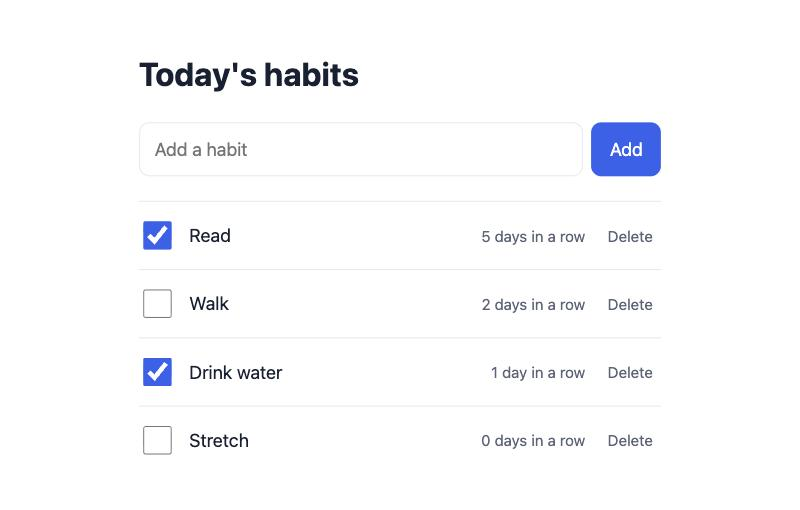
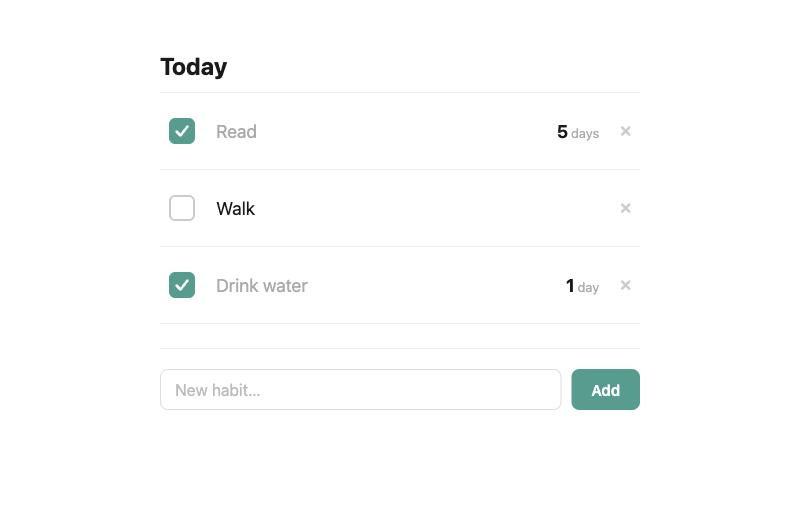
Clarify the navigation and add prompt search
Labels the habit tracker as an optional exercise and lets students jump
to their own app. The site name uses the landing font beside the favicon
mark. All prompts gets a search box. The lesson screenshot now comes from
a clean Claude Code run of the prompts.

diff --git a/content/lessons/1b-habit-tracker.ts b/content/lessons/1b-habit-tracker.ts
@@ -5,13 +5,14 @@ import type { Part } from "@/lib/types";
 export const habitTracker: Part = {
   slug: "habit-tracker",
   title: "Build a habit tracker",
+  group: "Optional exercise",
   lessons: [
     {
       slug: "plan-the-habit-tracker",
       title: "Plan the habit tracker",
       description: "Practice the whole process on a small app, starting with a one-page plan.",
       blocks: [
-        { type: "p", text: "Let's build one small app together, from start to finish. You'll see how it all works before you try your own idea." },
+        { type: "p", text: "Let's build one small app together, from start to finish, so you can see how it all works. Already have an idea? [Skip to your own app](/lessons/define-the-problem)." },
         { type: "p", text: "Good apps start on paper, so Claude writes the plan first." },
         newPlanSession(),
         pastePrompt({
@@ -93,7 +94,7 @@ Create a short CLAUDE.md that says what this app is, points to the files in docs
           text: `Read CLAUDE.md and everything in docs/. Build both milestones from docs/plan.md in index.html, and follow docs/design.md. Then tell me how to open it.`,
         }),
         approve("Claude writes the code."),
-        { type: "step", text: "Click `index.html` in the chat. It opens in the app's browser. Yours won't look exactly like this, because Claude makes its own choices.", then: [{ type: "image", src: "/lessons/habit-tracker.jpg", alt: "The finished habit tracker: a box to add a habit, and a list of habits with checkboxes and days in a row." }] },
+        { type: "step", text: "Click `index.html` in the chat. It opens in the app's browser. Yours won't look exactly like this, because Claude makes its own choices.", then: [{ type: "image", src: "/lessons/habit-tracker.jpg", alt: "The finished habit tracker: a list of habits with checkboxes and days in a row, and a box to add a new one." }] },
         { type: "step", text: "Try it. Add a habit called **Read**, check it off and refresh the page. It should still be there." },
       ],
     },

diff --git a/components/SideNav.tsx b/components/SideNav.tsx
@@ -3,6 +3,7 @@ import Link from "next/link";
 import { usePathname } from "next/navigation";
 import { useState } from "react";
 import { Author } from "@/components/Author";
+import { Brand } from "@/components/Brand";
 import { useProgress } from "@/lib/progress";
 
 export type NavPart = { slug: string; title: string; group?: string; lessons: { slug: string; title: string }[] };
@@ -17,7 +18,11 @@ function Tree({ parts, path, onNavigate }: { parts: NavPart[]; path: string; onN
           const open = part.lessons.some((l) => path === `/lessons/${l.slug}`);
           return (
             <li key={part.slug}>
-              {part.group ? <span className="tree-group">{part.group}</span> : null}
+              {part.group ? (
+                <Link href={`/lessons/${part.lessons[0].slug}`} onClick={onNavigate} className="tree-group">
+                  {part.group}
+                </Link>
+              ) : null}
               <Link href={`/lessons/${part.lessons[0].slug}`} onClick={onNavigate} className={open ? "tree-stage open" : "tree-stage"}>
                 {part.title}
               </Link>
@@ -56,9 +61,7 @@ export function SideNav({ parts }: { parts: NavPart[] }) {
   return (
     <>
       <header className="phonebar">
-        <Link href="/" className="brand">
-          Coding with Vibes Only
-        </Link>
+        <Brand />
         <button type="button" className="dive-open" aria-expanded={open} onClick={() => setOpen(!open)}>
           {open ? "Close" : "Menu"}
         </button>
@@ -69,9 +72,7 @@ export function SideNav({ parts }: { parts: NavPart[] }) {
         </nav>
       ) : null}
       <aside className="sidebar">
-        <Link href="/" className="brand">
-          Coding with Vibes Only
-        </Link>
+        <Brand />
         <nav aria-label="Lessons">
           <Tree parts={parts} path={path} />
         </nav>

diff --git a/components/PromptSearch.tsx b/components/PromptSearch.tsx
@@ -1,0 +1,42 @@
+"use client";
+import { useState } from "react";
+import { Prompt } from "@/components/Prompt";
+
+type Item = { id: string; title: string; mode?: string; text: string };
+type Group = { slug: string; title: string; items: Item[] };
+
+// Every word typed has to appear in the prompt's stage, title or text.
+export function PromptSearch({ groups }: { groups: Group[] }) {
+  const [query, setQuery] = useState("");
+  const words = query.toLowerCase().split(/\s+/).filter(Boolean);
+  const matches = (group: Group, item: Item) => {
+    const haystack = `${group.title} ${item.title} ${item.text}`.toLowerCase();
+    return words.every((w) => haystack.includes(w));
+  };
+  const shown = groups.map((g) => ({ ...g, items: g.items.filter((i) => matches(g, i)) })).filter((g) => g.items.length);
+
+  return (
+    <>
+      <input
+        className="search"
+        type="search"
+        value={query}
+        onChange={(e) => setQuery(e.target.value)}
+        placeholder="Search prompts"
+        aria-label="Search prompts"
+      />
+      {shown.length ? null : <p role="status">No prompts match that search.</p>}
+      {shown.map((group) => (
+        <section key={group.slug} className="prompt-group">
+          <h2>{group.title}</h2>
+          {group.items.map((item) => (
+            <div key={item.id}>
+              <p>{item.title}</p>
+              <Prompt label={item.mode ? `${item.mode} mode` : undefined} text={item.text} />
+            </div>
+          ))}
+        </section>
+      ))}
+    </>
+  );
+}

diff --git a/styles/course.css b/styles/course.css
@@ -1,7 +1,7 @@
 /* The frame around the lessons. */
 .course {
   display: grid;
-  grid-template-columns: 260px minmax(0, 1fr);
+  grid-template-columns: 280px minmax(0, 1fr);
   min-height: 100dvh;
 }
 
@@ -15,6 +15,7 @@
   top: 0;
   height: 100dvh;
   overflow-y: auto;
+  scrollbar-width: thin;
   padding: 24px;
   display: flex;
   flex-direction: column;
@@ -32,19 +33,12 @@
 }
 
 .sidebar > .brand {
-  display: block;
-  margin-bottom: 32px;
+  margin-bottom: 24px;
 }
 
 .phonebar,
 .phonemenu {
   display: none;
-}
-
-.phonebar .brand {
-  display: flex;
-  align-items: center;
-  min-height: 44px;
 }
 
 .tree,
@@ -75,12 +69,19 @@
 
 .tree-group {
   display: block;
-  margin: 16px 0 4px;
-  padding-top: 16px;
+  margin-top: 14px;
+  padding: 14px 0 4px;
   border-top: 1px solid var(--line);
-  color: var(--ink);
+  color: var(--muted);
   font-size: 13px;
   font-weight: 600;
+  letter-spacing: 0.06em;
+  text-decoration: none;
+  text-transform: uppercase;
+}
+
+.tree-group:hover {
+  color: var(--accent);
 }
 
 .tree-prompts {
@@ -150,6 +151,9 @@
     padding: 8px 20px 24px;
     background: var(--bg);
     flex-direction: column;
+  }
+  .phonemenu .tree-group {
+    padding-bottom: 8px;
   }
   .phonemenu .tree-stage,
   .phonemenu .tree-lesson {

diff --git a/app/(course)/prompts/page.tsx b/app/(course)/prompts/page.tsx
@@ -1,5 +1,5 @@
 import type { Metadata } from "next";
-import { Prompt } from "@/components/Prompt";
+import { PromptSearch } from "@/components/PromptSearch";
 import { promptsByPart } from "@/lib/course";
 
 export const metadata: Metadata = {
@@ -9,22 +9,17 @@ export const metadata: Metadata = {
 
 // Job: find a prompt and copy it.
 export default function AllPrompts() {
+  const groups = promptsByPart
+    .filter((g) => g.items.length)
+    .map(({ part, items }) => ({
+      slug: part.slug,
+      title: part.title,
+      items: items.map(({ id, title, mode, text }) => ({ id, title, mode, text })),
+    }));
   return (
     <article className="lesson">
       <h1>All prompts</h1>
-      {promptsByPart
-        .filter((g) => g.items.length)
-        .map(({ part, items }) => (
-          <section key={part.slug} className="prompt-group">
-            <h2>{part.title}</h2>
-            {items.map((prompt) => (
-              <div key={prompt.id}>
-                <p>{prompt.title}</p>
-                <Prompt label={prompt.mode ? `${prompt.mode} mode` : undefined} text={prompt.text} />
-              </div>
-            ))}
-          </section>
-        ))}
+      <PromptSearch groups={groups} />
     </article>
   );
 }

diff --git a/components/Blocks.tsx b/components/Blocks.tsx
@@ -1,3 +1,4 @@
+import Link from "next/link";
 import type { ReactNode } from "react";
 import { Checklist } from "@/components/Checklist";
 import { Dive } from "@/components/Dive";
@@ -37,6 +38,13 @@ function Inline({ text, ctx }: { text: string; ctx: Ctx }) {
         if (part.startsWith("`")) return <code key={i}>{part.slice(1, -1)}</code>;
         const link = /^\[([^\]]+)\]\(([^)]+)\)$/.exec(part);
         if (link) {
+          if (link[2].startsWith("/")) {
+            return (
+              <Link key={i} href={link[2]}>
+                {link[1]}
+              </Link>
+            );
+          }
           return (
             <a key={i} href={link[2]} target="_blank" rel="noreferrer">
               {link[1]}

diff --git a/content/lessons/2-product.ts b/content/lessons/2-product.ts
@@ -18,7 +18,7 @@ export const product: Part = {
           left: { title: "Vague", items: ["A fitness app for everyone"] },
           right: { title: "Clear", items: ["Tells runners coming back from injury how far to run this week"] },
         },
-        { type: "step", text: "Create a new folder for your app, the same way you did for the habit tracker. In the Claude app, open it from the folder menu under the prompt box." },
+        { type: "step", text: "Create a new folder for your app, the same way you did [in setup](/lessons/create-your-project-folder). In the Claude app, open it from the folder menu under the prompt box." },
         newPlanSession(),
         pastePrompt({
           type: "prompt",

diff --git a/components/Brand.tsx b/components/Brand.tsx
@@ -1,0 +1,15 @@
+import Link from "next/link";
+
+// The site's mark: the same prompt and cursor as the favicon.
+export function Brand() {
+  return (
+    <Link href="/" className="brand">
+      <svg width="24" height="24" viewBox="0 0 32 32" aria-hidden="true">
+        <rect width="32" height="32" rx="7" fill="#0a0f1f" />
+        <path d="m8 10 6 6-6 6" fill="none" stroke="#8fb0ff" strokeWidth="2.8" strokeLinecap="round" strokeLinejoin="round" />
+        <rect x="16.5" y="20" width="8" height="2.8" rx="1.2" fill="#ffffff" />
+      </svg>
+      Coding with Vibes Only
+    </Link>
+  );
+}

diff --git a/styles/lesson.css b/styles/lesson.css
@@ -299,6 +299,21 @@
 }
 
 /* All prompts */
+.search {
+  width: 100%;
+  min-height: 48px;
+  padding: 10px 16px;
+  border: 1px solid var(--muted);
+  border-radius: var(--radius);
+  background: var(--card);
+  color: var(--ink);
+  font: var(--body) var(--sans);
+}
+
+.search::placeholder {
+  color: var(--muted);
+}
+
 .prompt-group {
   margin-bottom: 48px;
 }

diff --git a/styles/base.css b/styles/base.css
@@ -103,11 +103,15 @@ code {
 }
 
 .brand {
-  font-family: var(--serif);
-  font-weight: 600;
-  font-size: var(--body);
+  display: flex;
+  align-items: center;
+  gap: 10px;
+  min-height: 44px;
   color: var(--ink);
+  font-size: var(--small);
+  font-weight: 600;
   text-decoration: none;
+  white-space: nowrap;
 }
 
 /* The one button */

diff --git a/docs/design.md b/docs/design.md
@@ -25,8 +25,8 @@ Architecture is the foundation. Design shapes everything people touch. Good prod
 ## Screens
 - **Landing:** one light full page, no split, no scrolling at any size. Moving blue arc, headline, one short line, one button, and the author credit.
 - **Lesson:** title, then the walkthrough, then Next. Nothing above the title.
-- **Sidebar:** stages, with only the current stage's lessons open, a label where the student's own app begins, and the author credit at the very bottom. Phones get the same list behind Menu.
-- **All prompts:** the prompts, grouped by stage.
+- **Sidebar:** the site mark, then stages with only the current stage's lessons open. Labels mark the optional exercise and the student's own app, and each label jumps to its start. All prompts and the author credit sit below. Phones get the same list behind Menu.
+- **All prompts:** a search box above the prompts, grouped by stage. Search filters as you type.
 
 ## Drawings
 `components/Mock.tsx` draws where to click, marking the control with `.hit`. They're simplified on purpose. Names come from the [Claude Code docs](https://code.claude.com/docs/en/desktop). When the app changes, update them.

diff --git a/docs/decisions.md b/docs/decisions.md
@@ -2,6 +2,7 @@
 
 What's true now, and why. Newest first. A reversed decision gets deleted; git has the history.
 
+- **2026-11-08** The navigation labels the habit tracker an optional exercise, and students can jump straight to their own app. The site name uses the landing page's font with the favicon mark beside it. All prompts has a search box. *Why:* Silvia's review: it has to be clear what is what.
 - **2026-11-08** The course has two paths in order: build a habit tracker together, then build your own app with the full process. *Why:* Silvia's call: people learn the loop on something concrete, and then think harder on their own idea. Other beginner courses also build a specific project.
 - **2026-11-08** The landing is dark blue with an arc that moves: light travels along it, its glow breathes, and a cursor blinks. The lessons stay light for reading. *Why:* Silvia's call: clean, with movement, and dark reads as more vibey and engineer coded. Blue tones, not orange.
 - **2026-11-08** The favicon is a prompt and cursor, `>_`. *Why:* that's what you type into when you vibe code.
